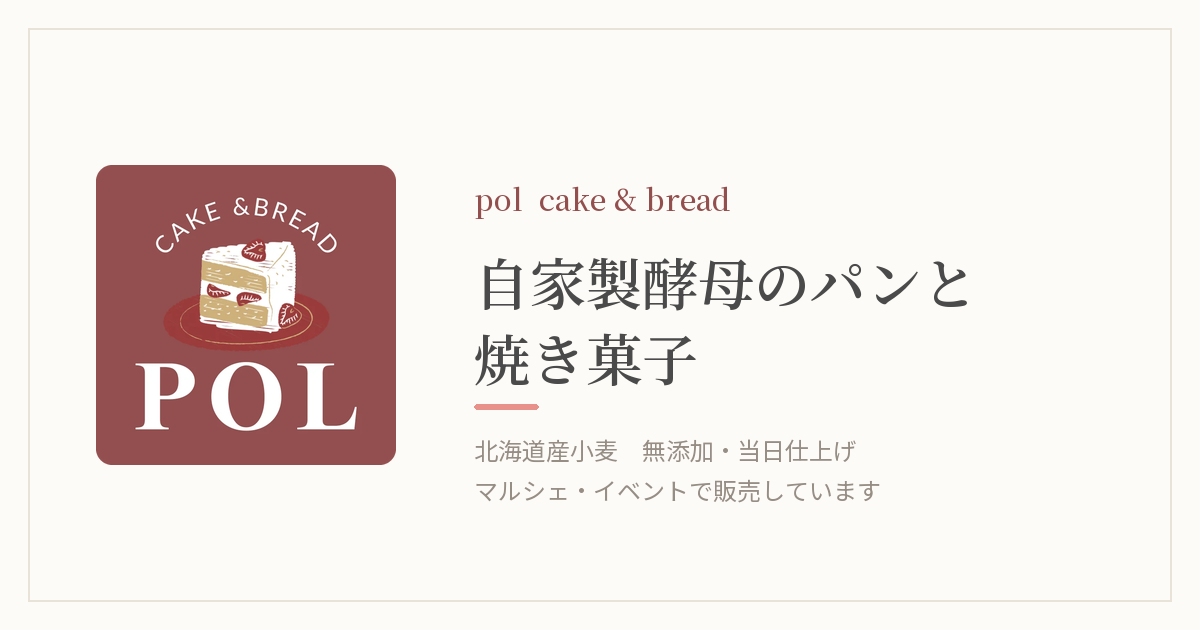
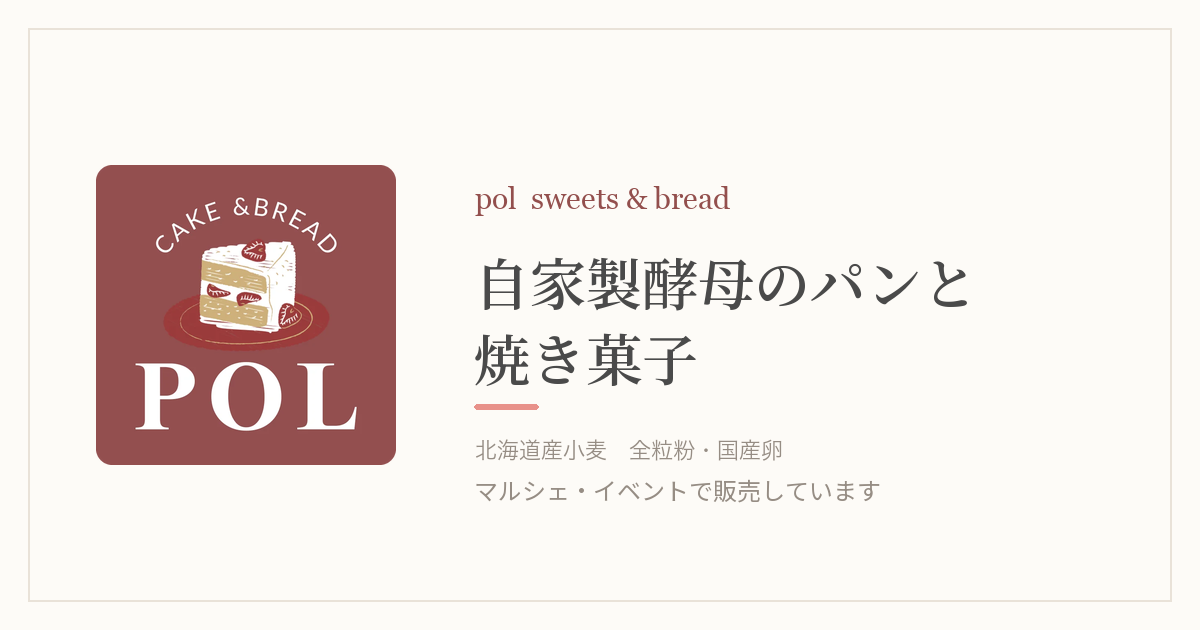
店名表記 cake & bread → sweets & bread（ヘッダー3ページ・title・og:site_name・フッター）＋OGP画像の文言修正（無添加・当日仕上げ→全粒粉・国産卵）v=2
ロゴ画像（pol_logo.webp）内の CAKE &BREAD は新ロゴ選定待ちのため未変更。

Changed region(s): [[0.4008, 0.6937, 0.7092, 0.754], [0.4008, 0.3016, 0.6167, 0.3317]]

diff --git a/index.html b/index.html
@@ -4,7 +4,7 @@
 <head>
     <meta charset="UTF-8">
     <meta name="viewport" content="width=device-width, initial-scale=1.0">
-    <title>Sweets & Cake | pol</title>
+    <title>Sweets & Bread | pol</title>
 
     <!-- 検索結果・SNS共有用（2026-09-04 追加）。
          LINEやInstagramでURLを送ったときに出るカード＝ここの og:* を読んでいます。
@@ -12,14 +12,14 @@
          （LINEは一度取得したOGP画像を強くキャッシュするため）。 -->
     <meta name="description" content="季節のフルーツやヨーグルトから起こした自家製酵母のパンと、何度も焼き直して仕上げた焼き菓子。北海道産小麦・全粒粉・国産卵。マルシェ・イベントで販売しています。">
     <meta property="og:type" content="website">
-    <meta property="og:site_name" content="pol cake &amp; bread">
+    <meta property="og:site_name" content="pol sweets &amp; bread">
     <meta property="og:title" content="pol｜自家製酵母のパンと焼き菓子">
     <meta property="og:description" content="季節のフルーツやヨーグルトから起こした自家製酵母のパンと、何度も焼き直して仕上げた焼き菓子。北海道産小麦・全粒粉・国産卵。マルシェ・イベントで販売しています。">
     <meta property="og:url" content="https://kabufamille.github.io/pol-homepage/">
-    <meta property="og:image" content="https://kabufamille.github.io/pol-homepage/images/ogp.png?v=1">
+    <meta property="og:image" content="https://kabufamille.github.io/pol-homepage/images/ogp.png?v=2">
     <meta property="og:image:width" content="1200">
     <meta property="og:image:height" content="630">
-    <meta property="og:image:alt" content="pol cake &amp; bread ロゴ">
+    <meta property="og:image:alt" content="pol sweets &amp; bread ロゴ">
     <meta property="og:locale" content="ja_JP">
     <meta name="twitter:card" content="summary_large_image">
     <link rel="canonical" href="https://kabufamille.github.io/pol-homepage/">
@@ -78,7 +78,7 @@
     <header class="header">
         <div class="container header-container">
             <h1 class="logo"><a href="#hero"><img src="images/pol_logo.webp" alt="pol"><span class="logo-text"><span
-                            class="text-sand">p</span>ol cake<span class="text-raspberry">&</span>bread</span></a></h1>
+                            class="text-sand">p</span>ol sweets<span class="text-raspberry">&</span>bread</span></a></h1>
             <nav class="nav">
                 <ul>
                     <li><a href="#hero">ホーム</a></li>

diff --git a/online_shop.html b/online_shop.html
@@ -47,7 +47,7 @@
     <header class="header">
         <div class="container header-container">
             <h1 class="logo"><a href="index.html"><img src="images/pol_logo.webp" alt="pol"><span class="logo-text"><span
-                            class="text-sand">p</span>ol cake<span class="text-raspberry">&</span>bread</span></a></h1>
+                            class="text-sand">p</span>ol sweets<span class="text-raspberry">&</span>bread</span></a></h1>
             <nav class="hidden md:block">
                 <ul class="flex gap-8 text-sm font-medium">
                     <li><a href="index.html#hero" class="hover:text-[#c1a173] transition">ホーム</a></li>
@@ -118,7 +118,7 @@
 
     <footer class="bg-white py-8 border-t border-gray-100 mt-20">
         <div class="container mx-auto px-4 text-center">
-            <p class="text-gray-400 text-sm font-kiwi">&copy; 2026 pol cake & bread. All Rights Reserved.</p>
+            <p class="text-gray-400 text-sm font-kiwi">&copy; 2026 pol sweets & bread. All Rights Reserved.</p>
         </div>
     </footer>
 

diff --git a/reservation.html b/reservation.html
@@ -23,7 +23,7 @@
     <header class="header">
         <div class="container header-container">
             <h1 class="logo"><a href="index.html"><img src="images/pol_logo.webp" alt="pol"><span class="logo-text"><span
-                            class="text-sand">p</span>ol cake<span class="text-raspberry">&</span>bread</span></a></h1>
+                            class="text-sand">p</span>ol sweets<span class="text-raspberry">&</span>bread</span></a></h1>
             <nav class="nav">
                 <ul>
                     <li><a href="index.html#hero">ホーム</a></li>
